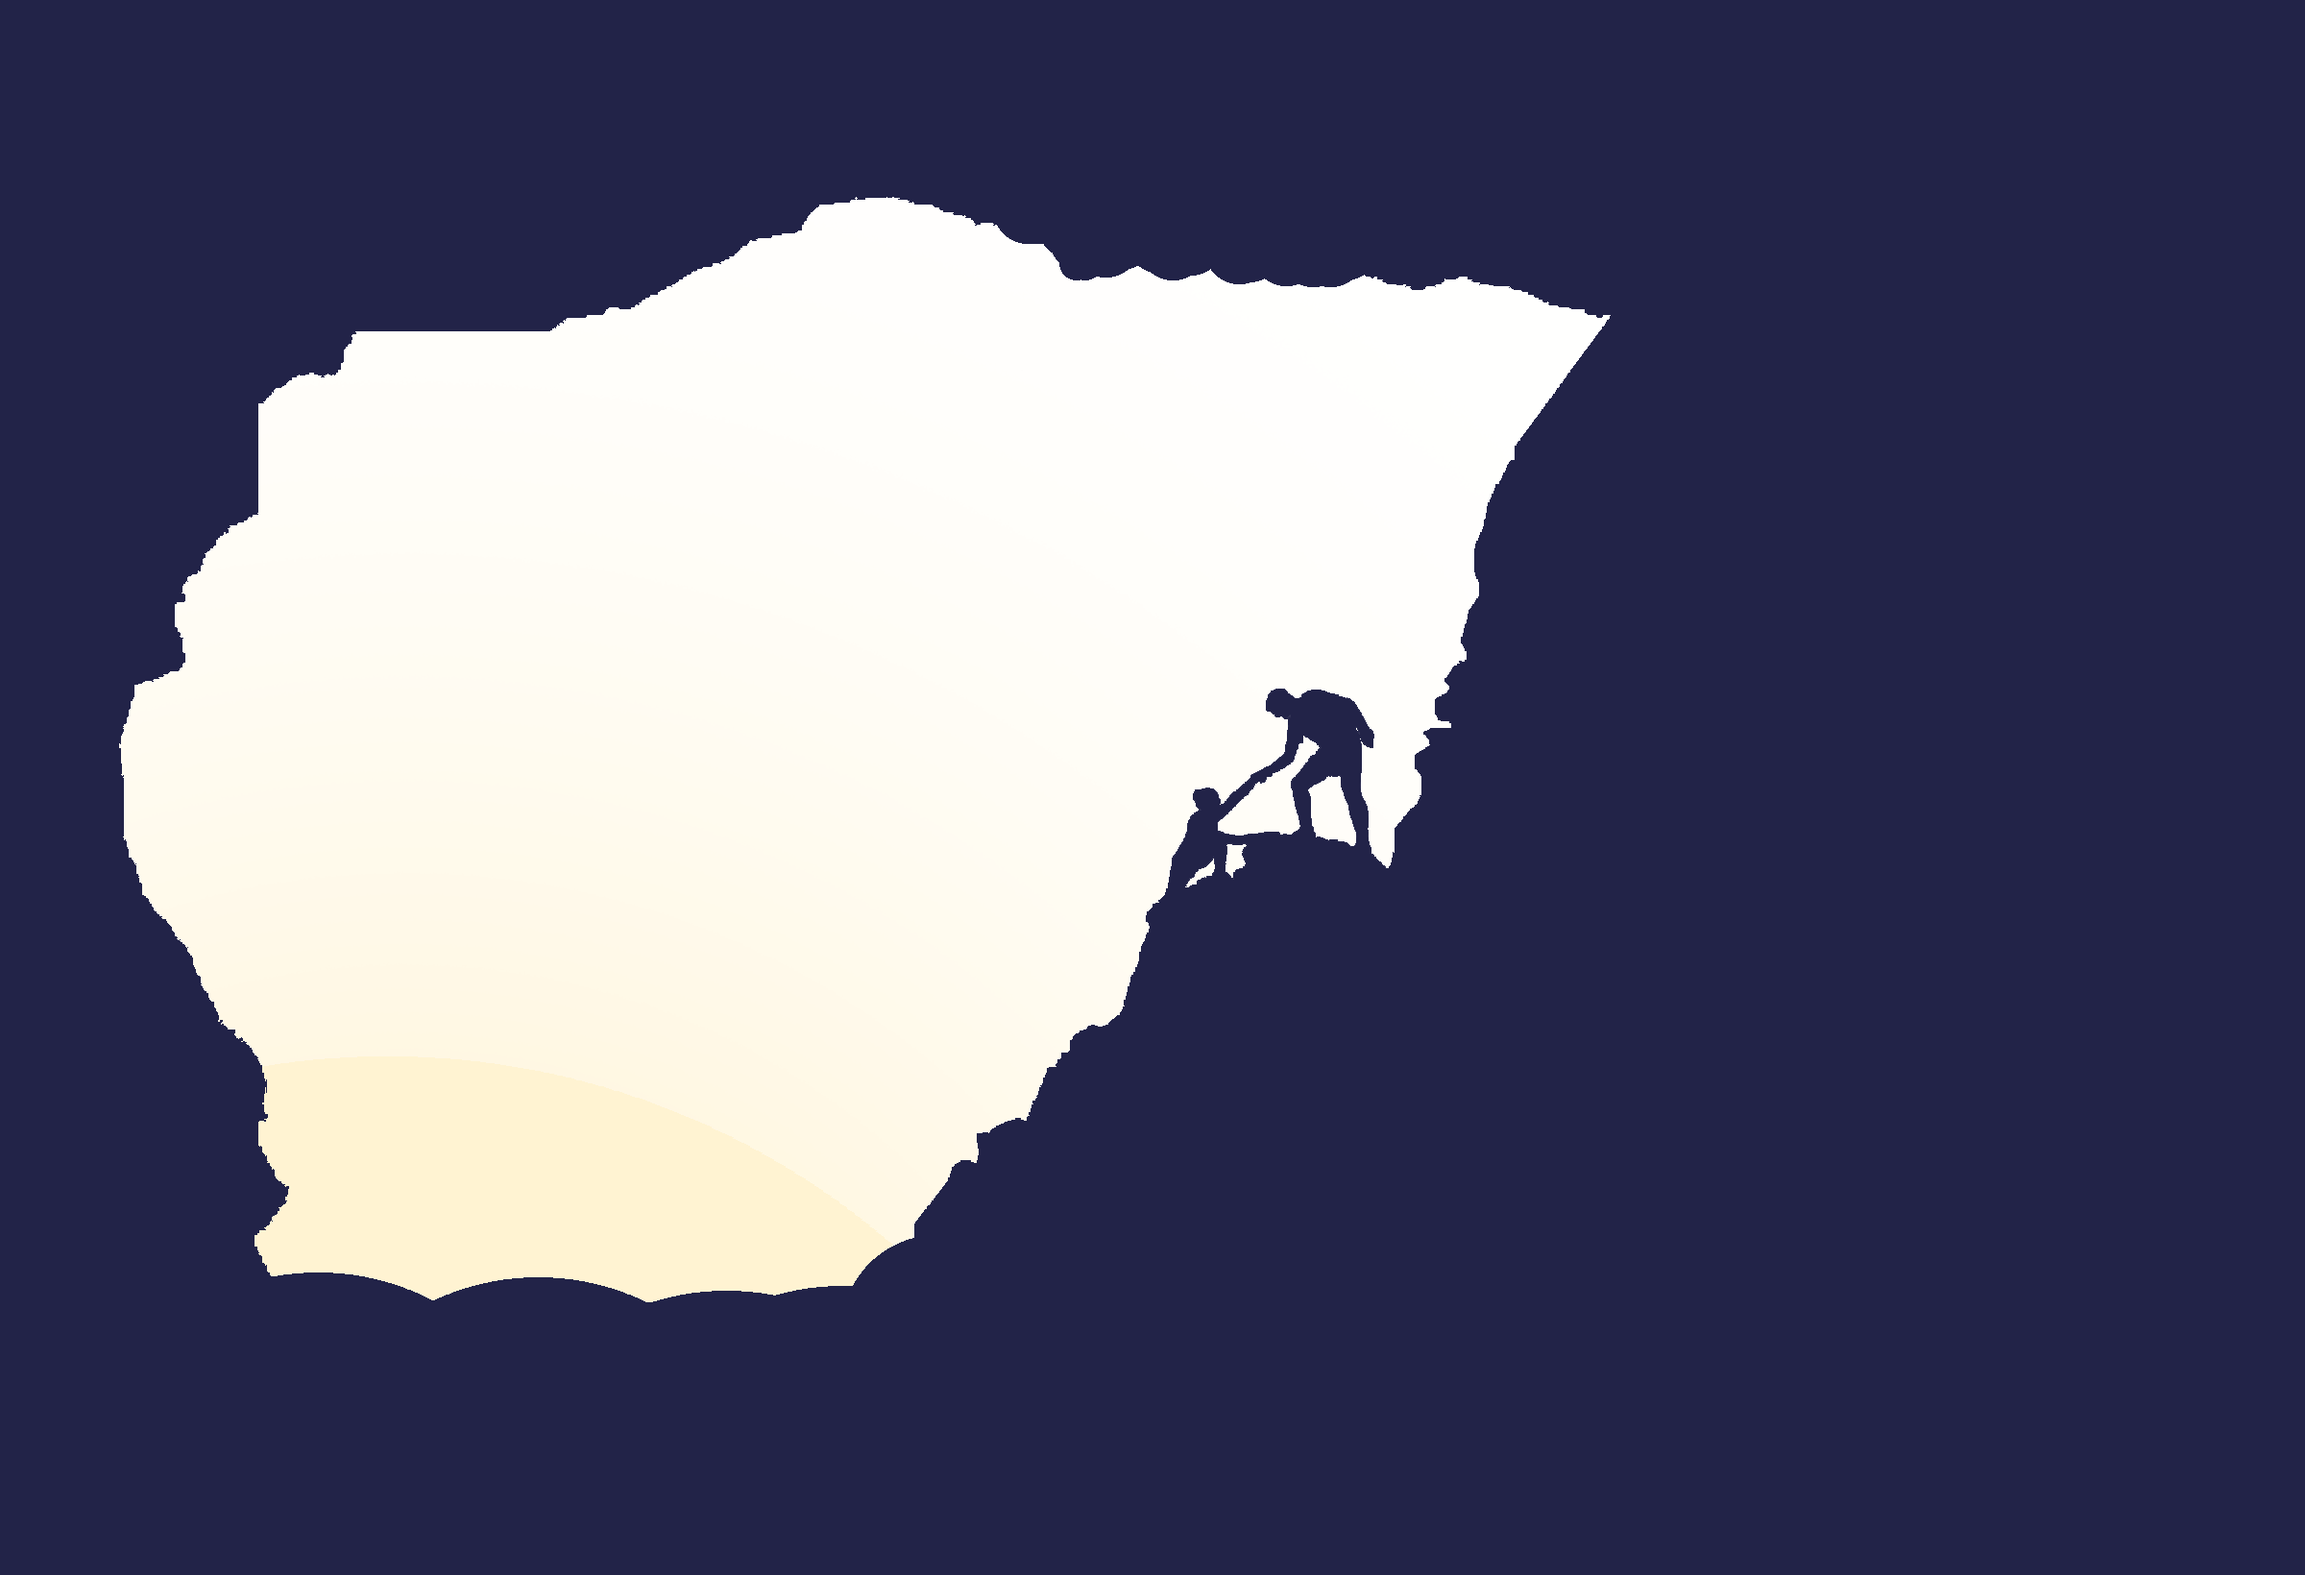
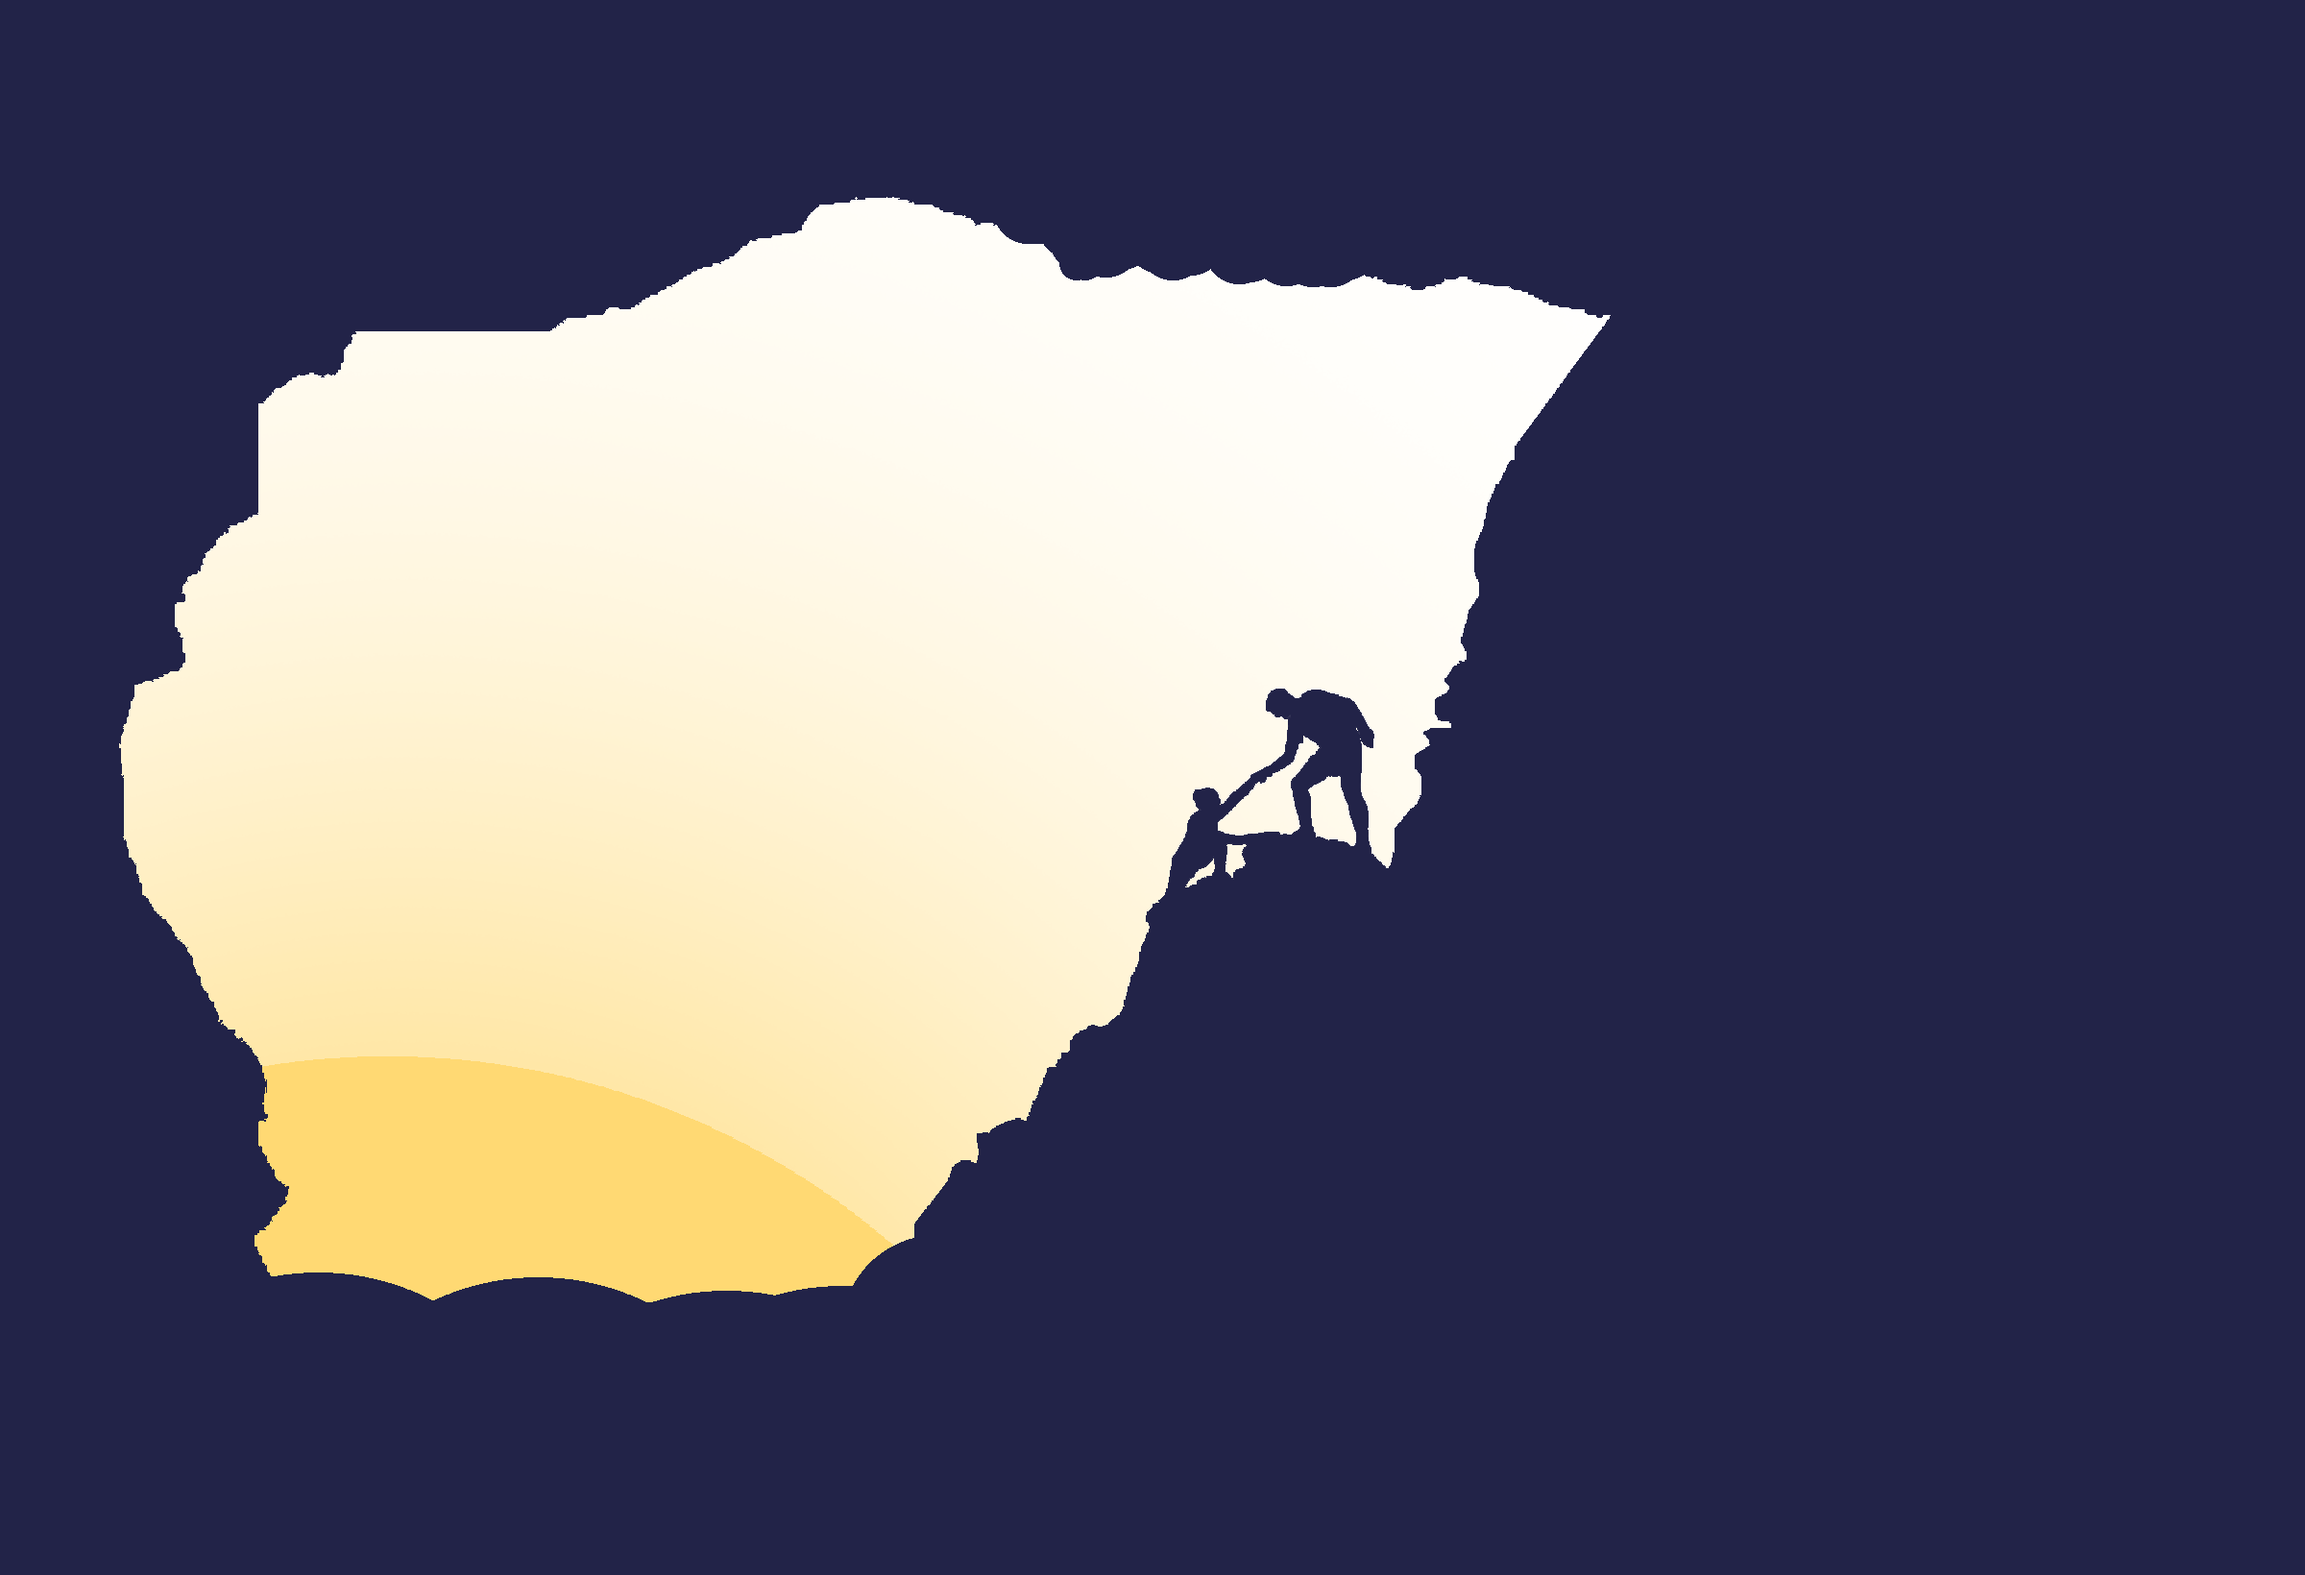
css size

Changed region(s): [[0.0312, 0.3732, 0.5, 0.8396]]

diff --git a/CSS/style4.css b/CSS/style4.css
@@ -2690,30 +2690,22 @@ input:hover {
   }
 } */
 
-@media screen and (max-height: 650px) {
-  #main nav ul {
+@media screen and (max-height: 500px) {
+  #wrapper {
+    padding-top: 50px;
+  }
+  #wrapper #mainNav {
+    position: absolute;
+    height: 50px;
+  }
+  #mainNav ul {
     height: 45px;
   }
-  #main nav ul li {
+  #mainNav ul li {
     font-size: .8rem;
   }
-  #main nav ul .icon {
+  #mainNav ul .icon {
     display: block;
-  }
-}
-@media (min-width: 900px) {
-  #wrapper > #bckgr {
-    background: url("../images/check2HugeBckgr.png");
-    background-size: contain;
-    background-repeat: no-repeat;
-  }
-  #wrapper > #stars {
-    background: url("../images/checkHugeStarsFinal2.png");
-    background-size: cover;
-    background-repeat: no-repeat;
-  }
-  #wrapper > #stars::after {
-    padding-top: 68.3%;
   }
 }
 @media (min-width: 700px) {
@@ -2761,10 +2753,10 @@ input:hover {
     border: 1px solid rgb(221, 182, 78);
   }
 }
-@media (min-width: 500px) and (max-width: 900px) {
+@media (min-width: 500px) {
   #wrapper > #bckgr {
     background: url("../images/check2.png");
-    background-size: 700px auto;
+    background-size: 600px auto;
     background-repeat: repeat;
     background-position: left bottom;
   }
